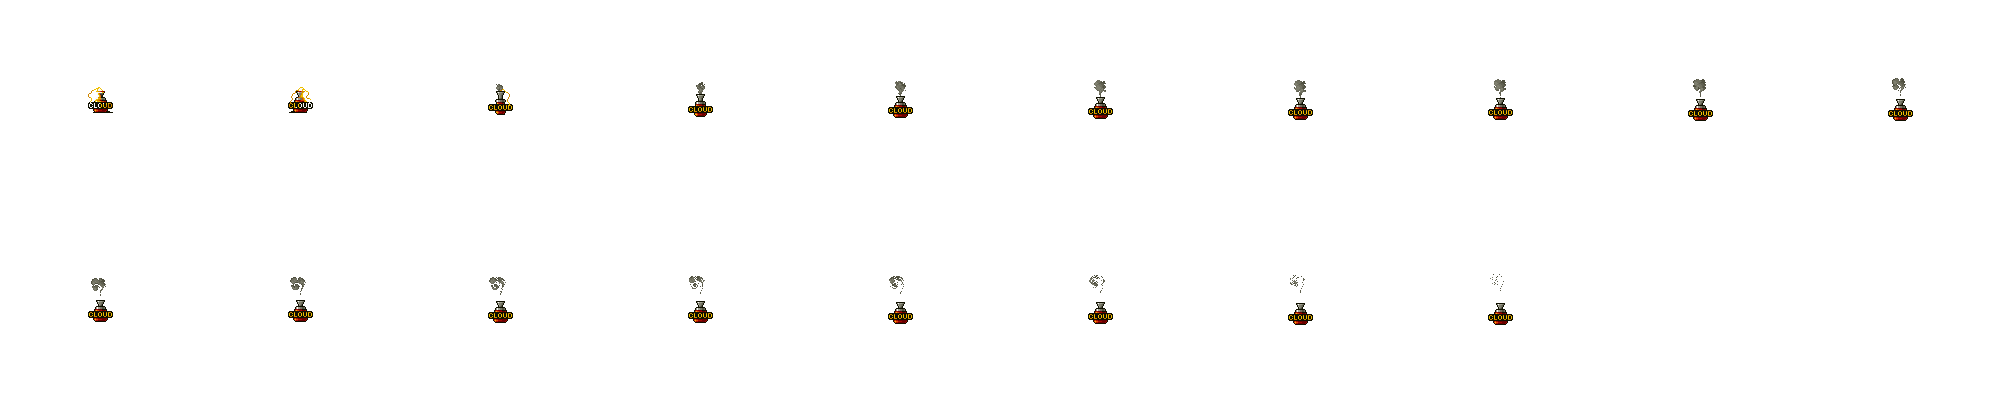
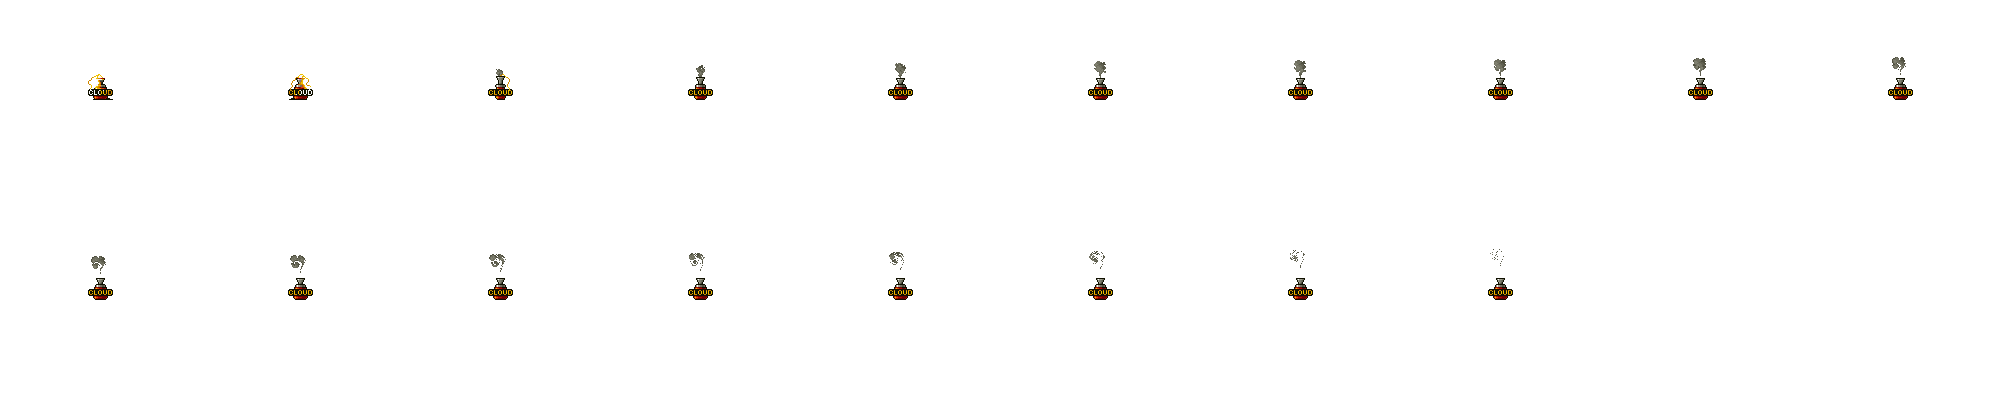
asas

diff --git a/MetalSlug3/MetalSlug3/CEOsecretary.cpp b/MetalSlug3/MetalSlug3/CEOsecretary.cpp
@@ -13,18 +13,26 @@ CEOsecretary::~CEOsecretary()
 void CEOsecretary::BeginPlay()
 {
 	Renderer = CreateImageRenderer(MT3RenderOrder::Enemy);
-	Renderer->CreateAnimation("CEOsecretary", "CEOsecretary.png");
-	Renderer->ChangeAnimation("CEOsecretary");
+	Renderer->CreateAnimation("CEOsecretary", "CEOsecretary.png", 0, 26, 0.08f, false);
+	Renderer->ChangeAnimation("CEOsecretary", false, 0, 0.08f);
+	Renderer->SetTransform({ {0,0},{500,500} });
 }
 
 void CEOsecretary::Tick(float _DeltaTime)
 {
 	int CurFrame = Renderer->GetCurAnimationFrame();
 
-	if (CurFrame != PrevFrame && CurFrame == 10)
+	if (CurFrame != PrevFrame && CurFrame == 11)
 	{
 		ThunderCloud* TC = GetWorld()->SpawnActor<ThunderCloud>();
 		TC->SetActorLocation(GetActorLocation());
+
+		PrevFrame = CurFrame;
+	}
+
+	if (Renderer->IsCurAnimationEnd())
+	{
+		Destroy();
 	}
 
 }

diff --git a/MetalSlug3/MetalSlug3/ThunderCloud.cpp b/MetalSlug3/MetalSlug3/ThunderCloud.cpp
@@ -24,7 +24,7 @@ void ThunderCloud::Tick(float _DeltaTime)
 
 void ThunderCloud::Action()
 {
-	AItem:; Action();
+	AItem:: Action();
 	if (!UContentsHelper::Player->IsZombie)
 	{
 		

diff --git a/MetalSlug3/MetalSlug3/SpawnManager.cpp b/MetalSlug3/MetalSlug3/SpawnManager.cpp
@@ -44,6 +44,7 @@
 #include "Medicine.h"
 #include "BombBox.h"
 #include "ThunderCloud.h"
+#include "CEOsecretary.h"
 
 SpawnManager::SpawnManager()
 {
